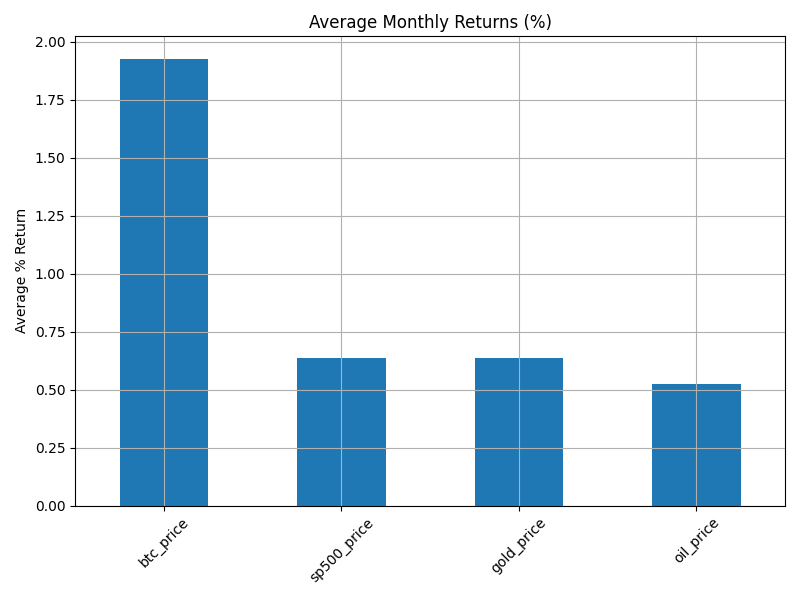
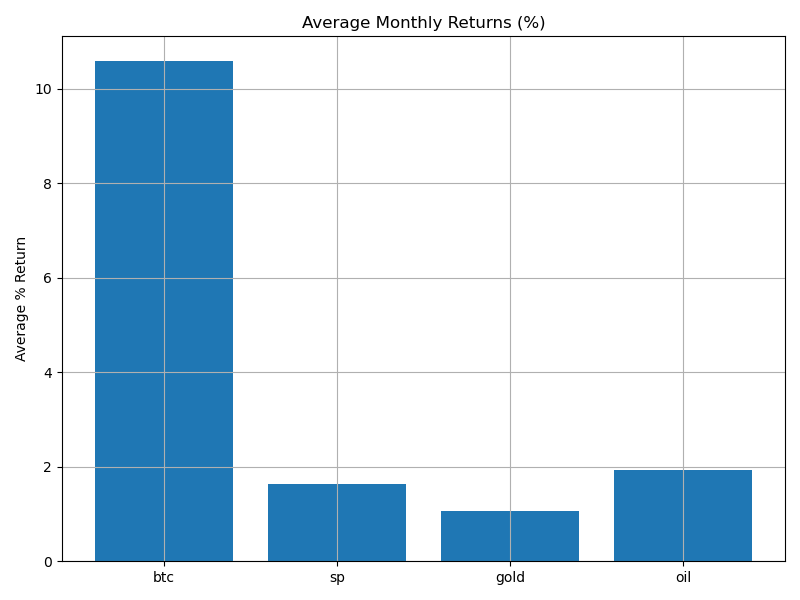
finished but need to add comments

diff --git a/calculations.py b/calculations.py
@@ -1,16 +1,17 @@
 import sqlite3
-import pandas as pd
+from datetime import datetime
 import matplotlib.pyplot as plt
 import seaborn as sns
+import numpy as np
 
-# === CONNECT TO DATABASE ===
+# === CONNECT AND FETCH DATA WITHOUT PANDAS ===
 conn = sqlite3.connect("financial_data.db")
+cursor = conn.cursor()
 
-# === SQL JOIN QUERY ===
 query = """
 SELECT
     btc.date AS date,
-    btc.close AS btc_price,
+    btc.price AS btc_price,
     sp.close AS sp500_price,
     gold.close AS gold_price,
     oil.price AS oil_price,
@@ -22,52 +23,62 @@ JOIN Oil_Prices oil ON btc.date = oil.date
 JOIN CPI_Data cpi ON btc.date = cpi.date
 ORDER BY btc.date ASC
 """
-
-# === EXECUTE QUERY ===
-merged = pd.read_sql_query(query, conn, parse_dates=["date"])
+cursor.execute(query)
+rows = cursor.fetchall()
 conn.close()
 
-# === CALCULATIONS ===
-merged['btc_to_cpi'] = merged['btc_price'] / merged['cpi_value']
-merged['sp500_to_cpi'] = merged['sp500_price'] / merged['cpi_value']
-merged['gold_to_cpi'] = merged['gold_price'] / merged['cpi_value']
-merged['oil_to_cpi'] = merged['oil_price'] / merged['cpi_value']
+# === PARSE DATA ===
+dates, btc, sp, gold, oil, cpi = [], [], [], [], [], []
+for row in rows:
+    dates.append(datetime.strptime(row[0], "%Y-%m-%d"))
+    btc.append(row[1])
+    sp.append(row[2])
+    gold.append(row[3])
+    oil.append(row[4])
+    cpi.append(row[5])
 
-# === WRITE TO TEXT FILE ===
+# === CALCULATIONS ===
+btc_to_cpi = [b / c for b, c in zip(btc, cpi)]
+sp_to_cpi = [s / c for s, c in zip(sp, cpi)]
+gold_to_cpi = [g / c for g, c in zip(gold, cpi)]
+oil_to_cpi = [o / c for o, c in zip(oil, cpi)]
+
+# === WRITE FIRST 10 RATIO ROWS ===
 with open("calculations_output.txt", "w") as f:
     f.write("Price-to-CPI Ratios (First 10 Rows):\n")
-    f.write(merged[['date', 'btc_to_cpi', 'sp500_to_cpi', 'gold_to_cpi', 'oil_to_cpi']].head(10).to_string(index=False))
-    f.write("\n\n")
+    for i in range(20):
+        f.write(f"{dates[i].strftime('%Y-%m-%d')}: BTC/CPI={btc_to_cpi[i]:.2f}, SP500/CPI={sp_to_cpi[i]:.2f}, Gold/CPI={gold_to_cpi[i]:.2f}, Oil/CPI={oil_to_cpi[i]:.2f}\n")
 
-    f.write("Correlation Matrix:\n")
-    corr = merged[['btc_price', 'sp500_price', 'gold_price', 'oil_price', 'cpi_value']].corr()
-    f.write(corr.to_string())
-    f.write("\n")
+# === CORRELATION MATRIX ===
+data_matrix = np.array([btc, sp, gold, oil, cpi])
+corr_matrix = np.corrcoef(data_matrix)
+labels = ['btc', 'sp500', 'gold', 'oil', 'cpi']
 
-# === GRAPH 1: Price-to-CPI Ratios Over Time ===
+with open("calculations_output.txt", "a") as f:
+    f.write("\nCorrelation Matrix:\n")
+    f.write('\t' + '\t'.join(labels) + '\n')
+    for i, row in enumerate(corr_matrix):
+        f.write(labels[i] + '\t' + '\t'.join(f"{val:.2f}" for val in row) + '\n')
+
+# === GRAPH 1: Normalized Price-to-CPI Ratios ===
 plt.figure(figsize=(12, 6))
-
-normalized = merged[['date', 'btc_to_cpi', 'sp500_to_cpi', 'gold_to_cpi', 'oil_to_cpi']].copy()
-for col in ['btc_to_cpi', 'sp500_to_cpi', 'gold_to_cpi', 'oil_to_cpi']:
-    normalized[col] = normalized[col] / normalized[col].iloc[0] * 100
-
-plt.plot(normalized['date'], normalized['btc_to_cpi'], label='Bitcoin / CPI')
-plt.plot(normalized['date'], normalized['sp500_to_cpi'], label='S&P500 / CPI')
-plt.plot(normalized['date'], normalized['gold_to_cpi'], label='Gold / CPI')
-plt.plot(normalized['date'], normalized['oil_to_cpi'], label='Oil / CPI')
-
-plt.xlabel('Date')
-plt.ylabel('Normalized Price-to-CPI Ratio (Base = 100)')
-plt.title('Normalized Price-to-CPI Ratios Over Time')
+plt.plot(dates, [x / btc_to_cpi[0] * 100 for x in btc_to_cpi], label='Bitcoin / CPI')
+plt.plot(dates, [x / sp_to_cpi[0] * 100 for x in sp_to_cpi], label='S&P500 / CPI')
+plt.plot(dates, [x / gold_to_cpi[0] * 100 for x in gold_to_cpi], label='Gold / CPI')
+plt.plot(dates, [x / oil_to_cpi[0] * 100 for x in oil_to_cpi], label='Oil / CPI')
+plt.xlabel("Date")
+plt.ylabel("Log Normalized Price-to-CPI Ratio (Base = 100)")
+plt.yscale("log")
+plt.title("Normalized Price-to-CPI Ratios Over Time (Log Scale)")
 plt.legend()
-plt.grid(True)
+plt.grid(True, which='both', linestyle='--', linewidth=0.5)
 plt.tight_layout()
-plt.savefig("price_to_cpi_ratio.png")
+plt.savefig("price_to_cpi_ratio_log.png")
 plt.close()
 
 # === GRAPH 2: Bitcoin vs Gold Prices Scatterplot ===
 plt.figure(figsize=(8, 6))
-sns.scatterplot(data=merged, x='gold_price', y='btc_price')
+sns.scatterplot(x=gold, y=btc)
 plt.xlabel("Gold Price (USD)")
 plt.ylabel("Bitcoin Price (USD)")
 plt.title("Bitcoin vs Gold Prices")
@@ -76,54 +87,58 @@ plt.tight_layout()
 plt.savefig("btc_vs_gold_scatter.png")
 plt.close()
 
-# === RESAMPLE TO MONTHLY AVERAGE PRICES ===
-monthly = merged.set_index('date').resample('M').mean().dropna()
+# === MANUAL MONTHLY RETURNS ===
+returns = {
+    "btc": [],
+    "sp": [],
+    "gold": [],
+    "oil": []
+}
 
-# === CALCULATE MONTHLY % RETURNS ===
-monthly_returns = monthly[['btc_price', 'sp500_price', 'gold_price', 'oil_price']].pct_change().dropna()
-average_returns = monthly_returns.mean() * 100  # Convert to %
+for i in range(1, len(dates)):
+    returns["btc"].append((btc[i] - btc[i - 1]) / btc[i - 1])
+    returns["sp"].append((sp[i] - sp[i - 1]) / sp[i - 1])
+    returns["gold"].append((gold[i] - gold[i - 1]) / gold[i - 1])
+    returns["oil"].append((oil[i] - oil[i - 1]) / oil[i - 1])
 
-# === WRITE TO FILE ===
+# === AVERAGE RETURNS ===
+average_returns = {k: np.mean(v) * 100 for k, v in returns.items()}
 with open("calculations_output.txt", "a") as f:
     f.write("\nAverage Monthly Returns (%):\n")
-    f.write(average_returns.to_string())
-    f.write("\n")
+    for asset, avg in average_returns.items():
+        f.write(f"{asset}: {avg:.2f}%\n")
 
-# === GRAPH 3: Average Monthly Returns Bar Chart ===
+# === GRAPH 3: Average Monthly Returns ===
 plt.figure(figsize=(8, 6))
-average_returns.plot(kind='bar')
-plt.title('Average Monthly Returns (%)')
-plt.ylabel('Average % Return')
-plt.xticks(rotation=45)
-plt.tight_layout()
+plt.bar(average_returns.keys(), average_returns.values())
+plt.title("Average Monthly Returns (%)")
+plt.ylabel("Average % Return")
 plt.grid(True)
+plt.tight_layout()
 plt.savefig("avg_monthly_returns.png")
 plt.close()
 
 # === GRAPH 4: Correlation Heatmap ===
 plt.figure(figsize=(8, 6))
-sns.heatmap(merged[['btc_price', 'sp500_price', 'gold_price', 'oil_price', 'cpi_value']].corr(), annot=True, cmap='coolwarm')
+sns.heatmap(corr_matrix, xticklabels=labels, yticklabels=labels, annot=True, cmap='coolwarm')
 plt.title("Correlation Heatmap Between Assets")
 plt.tight_layout()
 plt.savefig("correlation_heatmap.png")
 plt.close()
 
-# === CALCULATE VOLATILITY (Standard Deviation of Monthly Returns) ===
-volatility = monthly_returns.std() * 100  # Convert to %
-
-# === WRITE TO FILE ===
+# === VOLATILITY ===
+volatility = {k: np.std(v) * 100 for k, v in returns.items()}
 with open("calculations_output.txt", "a") as f:
     f.write("\nVolatility of Monthly Returns (%):\n")
-    f.write(volatility.to_string())
-    f.write("\n")
+    for asset, vol in volatility.items():
+        f.write(f"{asset}: {vol:.2f}%\n")
 
 # === GRAPH 5: Volatility Bar Chart ===
 plt.figure(figsize=(8, 6))
-volatility.plot(kind='bar', color='orange')
-plt.title('Volatility of Monthly Returns (%)')
-plt.ylabel('Standard Deviation (%)')
-plt.xticks(rotation=45)
-plt.tight_layout()
+plt.bar(volatility.keys(), volatility.values(), color='orange')
+plt.title("Volatility of Monthly Returns (%)")
+plt.ylabel("Standard Deviation (%)")
 plt.grid(True)
+plt.tight_layout()
 plt.savefig("volatility_bar_chart.png")
 plt.close()

diff --git a/fetch_all.py b/fetch_all.py
@@ -1,0 +1,11 @@
+from fetch_bitcoin import fetch_and_store_bitcoin
+from fetch_cpi_oil import fetch_and_store_cpi, fetch_and_store_oil
+from fetch_sp500_gld import fetch_and_store_gold, fetch_and_store_sp500
+
+if __name__ == '__main__':
+    fetch_and_store_bitcoin()
+    fetch_and_store_sp500()
+    fetch_and_store_gold()
+    fetch_and_store_cpi()
+    fetch_and_store_oil()
+    
